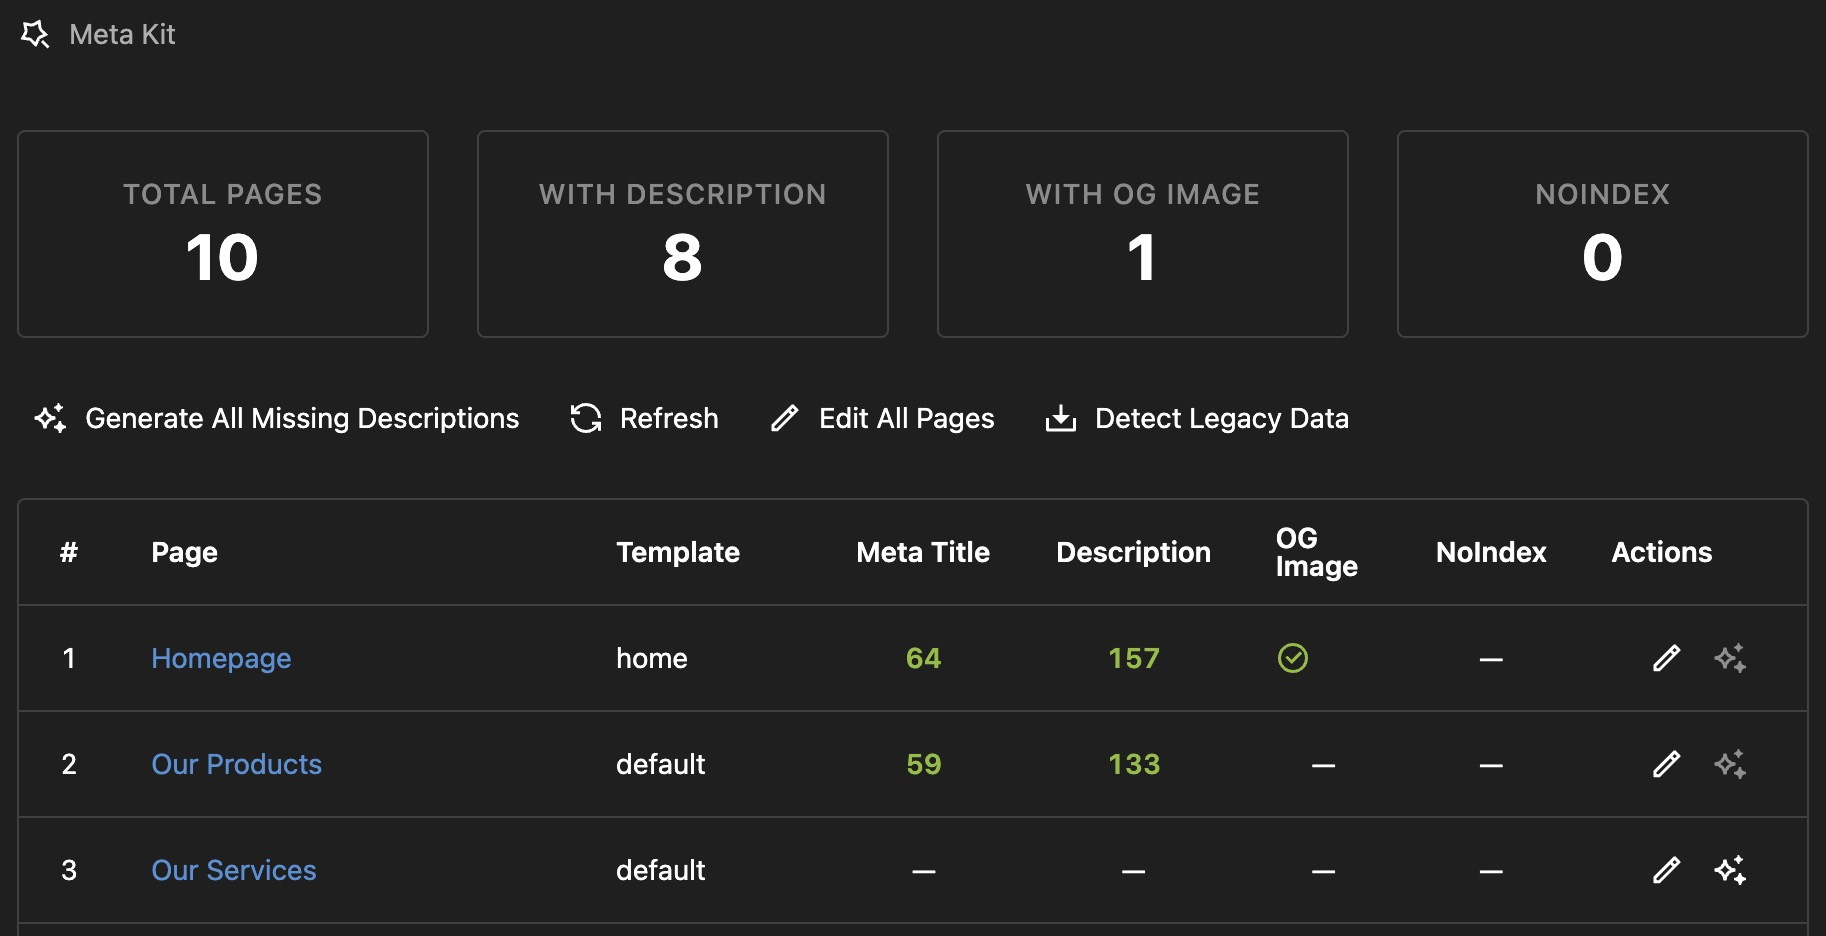
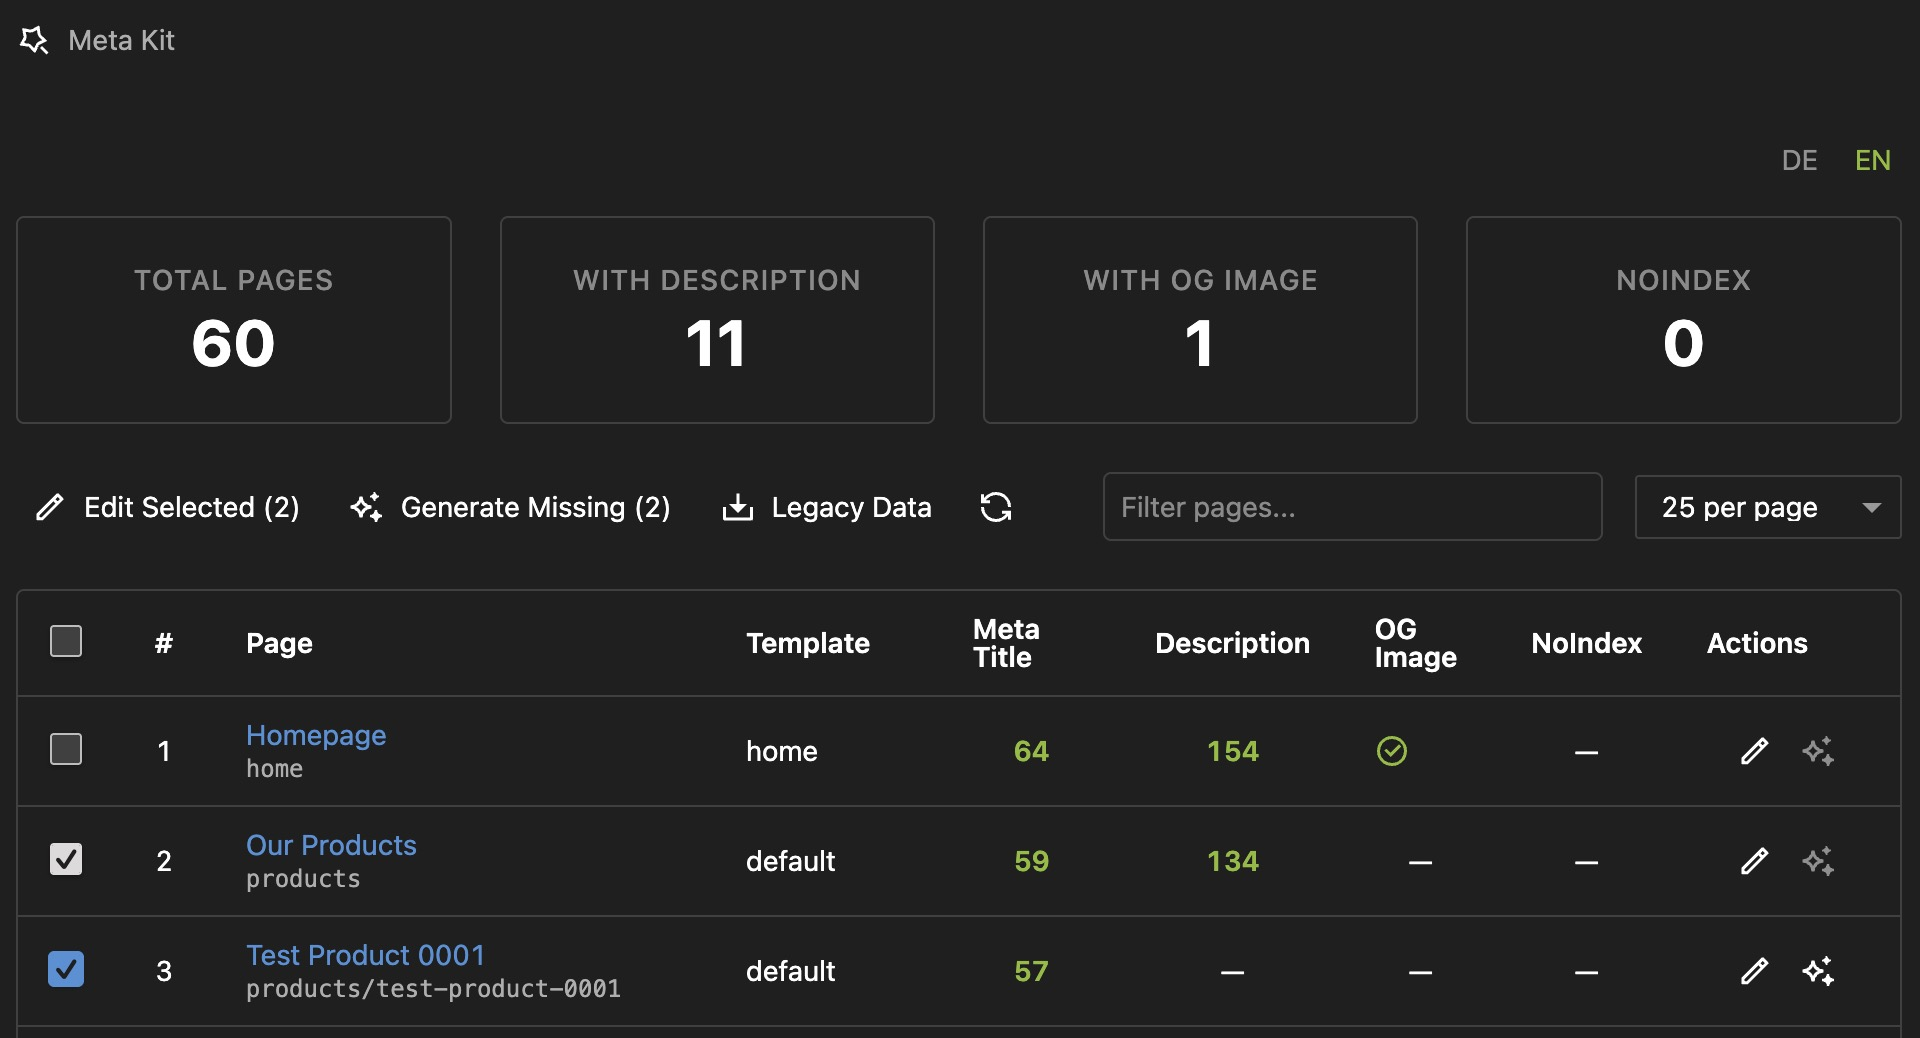
layout

diff --git a/js/components/MetaKitView.vue b/js/components/MetaKitView.vue
@@ -49,6 +49,13 @@
     <div class="k-meta-kit-actions">
       <k-button-group>
         <k-button
+          icon="edit"
+          :disabled="selectedPages.length === 0"
+          @click="showSelectedPagesDialog"
+        >
+          Edit Selected ({{ selectedPages.length }})
+        </k-button>
+        <k-button
           icon="sparkling"
           :disabled="isGeneratingAll || selectedPages.length === 0"
           :progress="isGeneratingAll"
@@ -56,19 +63,11 @@
         >
           Generate Missing ({{ selectedPages.length || filteredPages.length }})
         </k-button>
-        <k-button
-          icon="edit"
-          :disabled="selectedPages.length === 0"
-          @click="showSelectedPagesDialog"
-        >
-          Edit Selected ({{ selectedPages.length }})
-        </k-button>
-        <k-button icon="download" @click="detectLegacyMetadata">Detect Legacy Data</k-button>
-        <k-button icon="refresh" @click="refreshPages">Refresh</k-button>
+        <k-button icon="download" @click="detectLegacyMetadata">Legacy Data</k-button>
+        <k-button icon="refresh" @click="refreshPages"></k-button>
       </k-button-group>
 
       <div class="k-meta-kit-controls">
-        <span class="k-meta-kit-count">{{ selectedPages.length }} of {{ filteredPages.length }} selected</span>
         <div class="k-meta-kit-search-wrapper">
           <k-search-input
             icon="search"
@@ -131,7 +130,10 @@
           </td>
           <td>{{ (currentPage - 1) * pageSize + index + 1 }}</td>
           <td>
-            <a :href="page.panelUrl" class="k-link">{{ page.title }}</a>
+            <div class="k-meta-kit-table-page">
+              <a :href="page.panelUrl" class="k-link">{{ page.title }}</a>
+              <span class="k-meta-kit-table-page-id">{{ page.id }}</span>
+            </div>
           </td>
           <td>{{ page.template }}</td>
           <td class="k-meta-kit-table-center">
@@ -869,6 +871,7 @@ export default {
       const query = this.searchQuery.toLowerCase();
       return this.pagesData.filter(page => {
         return page.title.toLowerCase().includes(query) ||
+               page.id.toLowerCase().includes(query) ||
                page.template.toLowerCase().includes(query) ||
                (page.metaDescription && page.metaDescription.toLowerCase().includes(query));
       });
@@ -1204,7 +1207,7 @@ export default {
           if (pageInAllPages) {
             // Update the specific field with the new value
             this.$set(pageInAllPages, fieldName, value);
-            
+
             // Update the "has" flags
             if (fieldName === 'metaTitle') {
               this.$set(pageInAllPages, 'hasMetaTitle', value && value.length > 0);
@@ -1215,7 +1218,7 @@ export default {
             } else if (fieldName === 'ogImage') {
               this.$set(pageInAllPages, 'hasOgImage', value && value.length > 0);
             }
-            
+
             // Clear legacy data for this field if it exists
             if (pageInAllPages.legacy && pageInAllPages.legacy[fieldName]) {
               delete pageInAllPages.legacy[fieldName];

diff --git a/index.css b/index.css
@@ -159,8 +159,19 @@
     padding: 0.75rem 1rem;
     border-bottom: 1px solid var(--color-border);
     font-size: 0.875rem;
-    color: var(--color-text);
-    background: var(--color-back);
+  }
+
+  .k-meta-kit-table-page {
+    display: flex;
+    flex-direction: column;
+    gap: 0.25rem;
+  }
+
+  .k-meta-kit-table-page-id {
+    font-size: 0.75rem;
+    color: var(--color-text-dimmed);
+    font-family: var(--font-mono);
+    font-weight: 400;
   }
 
   .k-meta-kit-table tbody tr:last-child td {

diff --git a/js/components/MetaKitView.css b/js/components/MetaKitView.css
@@ -159,8 +159,19 @@
     padding: 0.75rem 1rem;
     border-bottom: 1px solid var(--color-border);
     font-size: 0.875rem;
-    color: var(--color-text);
-    background: var(--color-back);
+  }
+
+  .k-meta-kit-table-page {
+    display: flex;
+    flex-direction: column;
+    gap: 0.25rem;
+  }
+
+  .k-meta-kit-table-page-id {
+    font-size: 0.75rem;
+    color: var(--color-text-dimmed);
+    font-family: var(--font-mono);
+    font-weight: 400;
   }
 
   .k-meta-kit-table tbody tr:last-child td {

diff --git a/index.js b/index.js
@@ -196,7 +196,7 @@
         }
         const query = this.searchQuery.toLowerCase();
         return this.pagesData.filter((page) => {
-          return page.title.toLowerCase().includes(query) || page.template.toLowerCase().includes(query) || page.metaDescription && page.metaDescription.toLowerCase().includes(query);
+          return page.title.toLowerCase().includes(query) || page.id.toLowerCase().includes(query) || page.template.toLowerCase().includes(query) || page.metaDescription && page.metaDescription.toLowerCase().includes(query);
         });
       },
       paginatedPages() {
@@ -645,7 +645,7 @@
       return _c("k-button", { key: lang.code, attrs: { "theme": lang.code === _vm.language ? "positive" : "", "size": "xs" }, on: { "click": function($event) {
         return _vm.goToLanguage(lang.code);
       } } }, [_vm._v(" " + _vm._s(lang.code.toUpperCase()) + " ")]);
-    }), 1)], 1) : _vm._e(), _vm.legacyDetection.show && _vm.legacyDetection.found > 0 ? _c("div", { staticClass: "k-meta-kit-warning" }, [_c("k-box", { attrs: { "theme": "info" } }, [_c("k-icon", { attrs: { "type": "info" } }), _c("span", [_vm._v("Found " + _vm._s(_vm.legacyDetection.found) + " pages with legacy SEO metadata")]), _c("k-button", { attrs: { "icon": "download" }, on: { "click": _vm.showLegacyDialog } }, [_vm._v("View & Convert")]), _c("k-button", { attrs: { "icon": "cancel" }, on: { "click": _vm.dismissLegacyWarning } }, [_vm._v("Dismiss")])], 1)], 1) : _vm._e(), _c("div", { staticClass: "k-meta-kit-stats" }, [_c("div", { staticClass: "k-meta-kit-stats-card" }, [_c("h3", [_vm._v("Total Pages")]), _c("p", [_vm._v(_vm._s(_vm.filteredPages.length)), _vm.searchQuery ? _c("span", { staticClass: "k-meta-kit-stats-total" }, [_vm._v(" / " + _vm._s(_vm.pagesData.length))]) : _vm._e()])]), _c("div", { staticClass: "k-meta-kit-stats-card" }, [_c("h3", [_vm._v("With Description")]), _c("p", [_vm._v(_vm._s(_vm.filteredPagesWithDescription)), _vm.searchQuery ? _c("span", { staticClass: "k-meta-kit-stats-total" }, [_vm._v(" / " + _vm._s(_vm.pagesWithDescription))]) : _vm._e()])]), _c("div", { staticClass: "k-meta-kit-stats-card" }, [_c("h3", [_vm._v("With OG Image")]), _c("p", [_vm._v(_vm._s(_vm.filteredPagesWithOgImage)), _vm.searchQuery ? _c("span", { staticClass: "k-meta-kit-stats-total" }, [_vm._v(" / " + _vm._s(_vm.pagesWithOgImage))]) : _vm._e()])]), _c("div", { staticClass: "k-meta-kit-stats-card" }, [_c("h3", [_vm._v("NoIndex")]), _c("p", [_vm._v(_vm._s(_vm.filteredPagesNoIndex)), _vm.searchQuery ? _c("span", { staticClass: "k-meta-kit-stats-total" }, [_vm._v(" / " + _vm._s(_vm.pagesNoIndex))]) : _vm._e()])])]), _c("div", { staticClass: "k-meta-kit-actions" }, [_c("k-button-group", [_c("k-button", { attrs: { "icon": "sparkling", "disabled": _vm.isGeneratingAll || _vm.selectedPages.length === 0, "progress": _vm.isGeneratingAll }, on: { "click": _vm.generateAllDescriptions } }, [_vm._v(" Generate Missing (" + _vm._s(_vm.selectedPages.length || _vm.filteredPages.length) + ") ")]), _c("k-button", { attrs: { "icon": "edit", "disabled": _vm.selectedPages.length === 0 }, on: { "click": _vm.showSelectedPagesDialog } }, [_vm._v(" Edit Selected (" + _vm._s(_vm.selectedPages.length) + ") ")]), _c("k-button", { attrs: { "icon": "download" }, on: { "click": _vm.detectLegacyMetadata } }, [_vm._v("Detect Legacy Data")]), _c("k-button", { attrs: { "icon": "refresh" }, on: { "click": _vm.refreshPages } }, [_vm._v("Refresh")])], 1), _c("div", { staticClass: "k-meta-kit-controls" }, [_c("span", { staticClass: "k-meta-kit-count" }, [_vm._v(_vm._s(_vm.selectedPages.length) + " of " + _vm._s(_vm.filteredPages.length) + " selected")]), _c("div", { staticClass: "k-meta-kit-search-wrapper" }, [_c("k-search-input", { staticClass: "k-meta-kit-search", attrs: { "icon": "search", "value": _vm.searchQuery, "placeholder": "Filter pages..." }, on: { "input": function($event) {
+    }), 1)], 1) : _vm._e(), _vm.legacyDetection.show && _vm.legacyDetection.found > 0 ? _c("div", { staticClass: "k-meta-kit-warning" }, [_c("k-box", { attrs: { "theme": "info" } }, [_c("k-icon", { attrs: { "type": "info" } }), _c("span", [_vm._v("Found " + _vm._s(_vm.legacyDetection.found) + " pages with legacy SEO metadata")]), _c("k-button", { attrs: { "icon": "download" }, on: { "click": _vm.showLegacyDialog } }, [_vm._v("View & Convert")]), _c("k-button", { attrs: { "icon": "cancel" }, on: { "click": _vm.dismissLegacyWarning } }, [_vm._v("Dismiss")])], 1)], 1) : _vm._e(), _c("div", { staticClass: "k-meta-kit-stats" }, [_c("div", { staticClass: "k-meta-kit-stats-card" }, [_c("h3", [_vm._v("Total Pages")]), _c("p", [_vm._v(_vm._s(_vm.filteredPages.length)), _vm.searchQuery ? _c("span", { staticClass: "k-meta-kit-stats-total" }, [_vm._v(" / " + _vm._s(_vm.pagesData.length))]) : _vm._e()])]), _c("div", { staticClass: "k-meta-kit-stats-card" }, [_c("h3", [_vm._v("With Description")]), _c("p", [_vm._v(_vm._s(_vm.filteredPagesWithDescription)), _vm.searchQuery ? _c("span", { staticClass: "k-meta-kit-stats-total" }, [_vm._v(" / " + _vm._s(_vm.pagesWithDescription))]) : _vm._e()])]), _c("div", { staticClass: "k-meta-kit-stats-card" }, [_c("h3", [_vm._v("With OG Image")]), _c("p", [_vm._v(_vm._s(_vm.filteredPagesWithOgImage)), _vm.searchQuery ? _c("span", { staticClass: "k-meta-kit-stats-total" }, [_vm._v(" / " + _vm._s(_vm.pagesWithOgImage))]) : _vm._e()])]), _c("div", { staticClass: "k-meta-kit-stats-card" }, [_c("h3", [_vm._v("NoIndex")]), _c("p", [_vm._v(_vm._s(_vm.filteredPagesNoIndex)), _vm.searchQuery ? _c("span", { staticClass: "k-meta-kit-stats-total" }, [_vm._v(" / " + _vm._s(_vm.pagesNoIndex))]) : _vm._e()])])]), _c("div", { staticClass: "k-meta-kit-actions" }, [_c("k-button-group", [_c("k-button", { attrs: { "icon": "edit", "disabled": _vm.selectedPages.length === 0 }, on: { "click": _vm.showSelectedPagesDialog } }, [_vm._v(" Edit Selected (" + _vm._s(_vm.selectedPages.length) + ") ")]), _c("k-button", { attrs: { "icon": "sparkling", "disabled": _vm.isGeneratingAll || _vm.selectedPages.length === 0, "progress": _vm.isGeneratingAll }, on: { "click": _vm.generateAllDescriptions } }, [_vm._v(" Generate Missing (" + _vm._s(_vm.selectedPages.length || _vm.filteredPages.length) + ") ")]), _c("k-button", { attrs: { "icon": "download" }, on: { "click": _vm.detectLegacyMetadata } }, [_vm._v("Legacy Data")]), _c("k-button", { attrs: { "icon": "refresh" }, on: { "click": _vm.refreshPages } })], 1), _c("div", { staticClass: "k-meta-kit-controls" }, [_c("div", { staticClass: "k-meta-kit-search-wrapper" }, [_c("k-search-input", { staticClass: "k-meta-kit-search", attrs: { "icon": "search", "value": _vm.searchQuery, "placeholder": "Filter pages..." }, on: { "input": function($event) {
       _vm.searchQuery = $event;
     } } }), _vm.searchQuery ? _c("button", { staticClass: "k-meta-kit-search-clear", attrs: { "title": "Clear search" }, on: { "click": function($event) {
       _vm.searchQuery = "";
@@ -656,7 +656,7 @@
     }), 0)])], 1), _c("div", { staticClass: "k-meta-kit-table" }, [_c("table", [_c("thead", [_c("tr", [_c("th", { staticClass: "k-meta-kit-table-checkbox" }, [_c("input", { attrs: { "type": "checkbox" }, domProps: { "checked": _vm.isAllCurrentPageSelected }, on: { "change": _vm.toggleSelectAllCurrentPage } })]), _c("th", [_vm._v("#")]), _c("th", [_vm._v("Page")]), _c("th", [_vm._v("Template")]), _c("th", [_vm._v("Meta Title")]), _c("th", [_vm._v("Description")]), _c("th", [_vm._v("OG Image")]), _c("th", [_vm._v("NoIndex")]), _c("th", [_vm._v("Actions")])])]), _c("tbody", _vm._l(_vm.paginatedPages, function(page, index) {
       return _c("tr", { key: page.id }, [_c("td", { staticClass: "k-meta-kit-table-checkbox" }, [_c("input", { attrs: { "type": "checkbox" }, domProps: { "checked": _vm.isPageSelected(page.id) }, on: { "change": function($event) {
         return _vm.togglePageSelection(page.id);
-      } } })]), _c("td", [_vm._v(_vm._s((_vm.currentPage - 1) * _vm.pageSize + index + 1))]), _c("td", [_c("a", { staticClass: "k-link", attrs: { "href": page.panelUrl } }, [_vm._v(_vm._s(page.title))])]), _c("td", [_vm._v(_vm._s(page.template))]), _c("td", { staticClass: "k-meta-kit-table-center" }, [_c("span", { class: _vm.getStatusClass(page.hasMetaTitle, page.metaTitleLength) }, [_vm._v(" " + _vm._s(page.hasMetaTitle ? page.metaTitleLength : "—") + " ")])]), _c("td", { staticClass: "k-meta-kit-table-center" }, [_c("span", { class: _vm.getStatusClass(page.hasMetaDescription, page.metaDescriptionLength) }, [_vm._v(" " + _vm._s(page.hasMetaDescription ? page.metaDescriptionLength : "—") + " ")])]), _c("td", { staticClass: "k-meta-kit-table-center" }, [page.hasOgImage ? _c("k-icon", { staticClass: "k-meta-kit-icon-success", attrs: { "type": "check" } }) : _c("span", [_vm._v("—")])], 1), _c("td", { staticClass: "k-meta-kit-table-center" }, [page.noIndex ? _c("k-icon", { staticClass: "k-meta-kit-icon-warning", attrs: { "type": "check" } }) : _c("span", [_vm._v("—")])], 1), _c("td", { staticClass: "k-meta-kit-table-center" }, [_c("div", { staticClass: "k-meta-kit-table-actions" }, [_c("k-button", { attrs: { "icon": "edit", "size": "sm", "title": "Edit Metadata" }, on: { "click": function($event) {
+      } } })]), _c("td", [_vm._v(_vm._s((_vm.currentPage - 1) * _vm.pageSize + index + 1))]), _c("td", [_c("div", { staticClass: "k-meta-kit-table-page" }, [_c("a", { staticClass: "k-link", attrs: { "href": page.panelUrl } }, [_vm._v(_vm._s(page.title))]), _c("span", { staticClass: "k-meta-kit-table-page-id" }, [_vm._v(_vm._s(page.id))])])]), _c("td", [_vm._v(_vm._s(page.template))]), _c("td", { staticClass: "k-meta-kit-table-center" }, [_c("span", { class: _vm.getStatusClass(page.hasMetaTitle, page.metaTitleLength) }, [_vm._v(" " + _vm._s(page.hasMetaTitle ? page.metaTitleLength : "—") + " ")])]), _c("td", { staticClass: "k-meta-kit-table-center" }, [_c("span", { class: _vm.getStatusClass(page.hasMetaDescription, page.metaDescriptionLength) }, [_vm._v(" " + _vm._s(page.hasMetaDescription ? page.metaDescriptionLength : "—") + " ")])]), _c("td", { staticClass: "k-meta-kit-table-center" }, [page.hasOgImage ? _c("k-icon", { staticClass: "k-meta-kit-icon-success", attrs: { "type": "check" } }) : _c("span", [_vm._v("—")])], 1), _c("td", { staticClass: "k-meta-kit-table-center" }, [page.noIndex ? _c("k-icon", { staticClass: "k-meta-kit-icon-warning", attrs: { "type": "check" } }) : _c("span", [_vm._v("—")])], 1), _c("td", { staticClass: "k-meta-kit-table-center" }, [_c("div", { staticClass: "k-meta-kit-table-actions" }, [_c("k-button", { attrs: { "icon": "edit", "size": "sm", "title": "Edit Metadata" }, on: { "click": function($event) {
         return _vm.editSinglePageMetadata(page.id);
       } } }), _c("k-button", { attrs: { "icon": "sparkling", "size": "sm", "disabled": page.hasMetaDescription, "title": "Generate Description" }, on: { "click": function($event) {
         return _vm.generateDescription(page.id);